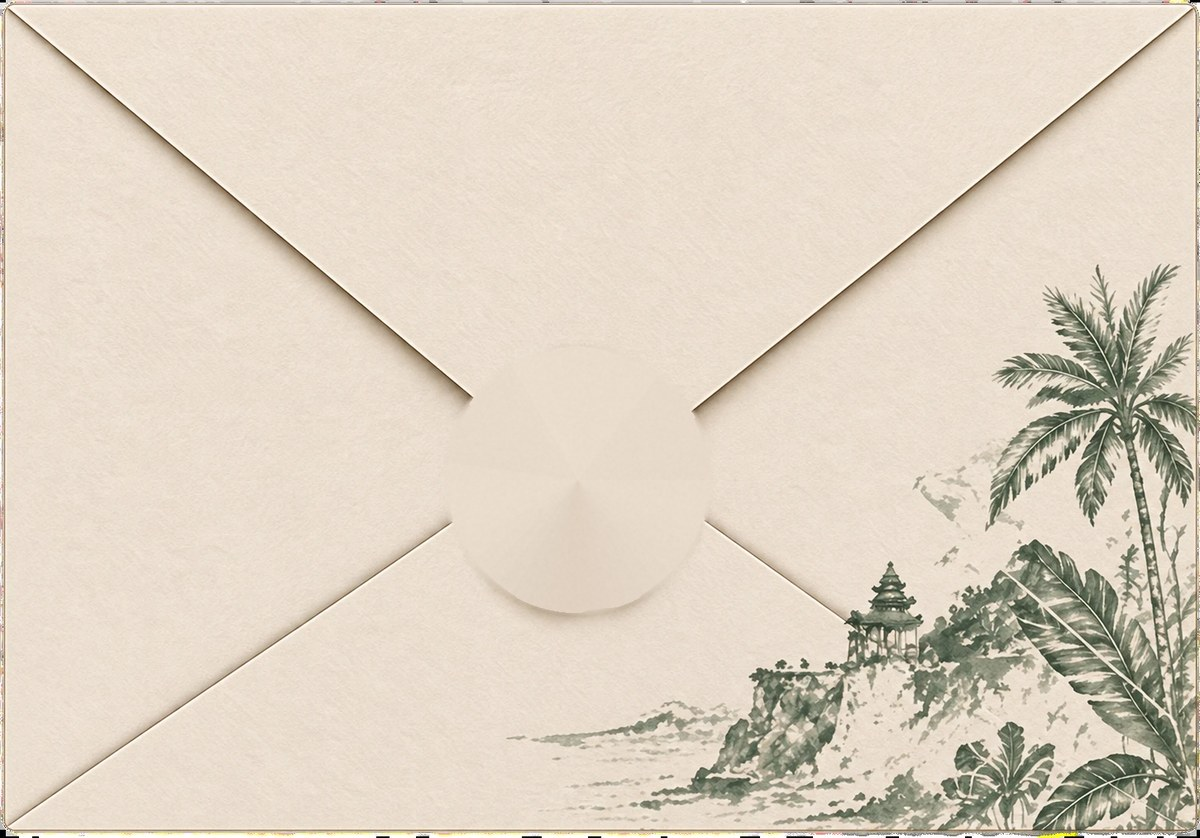
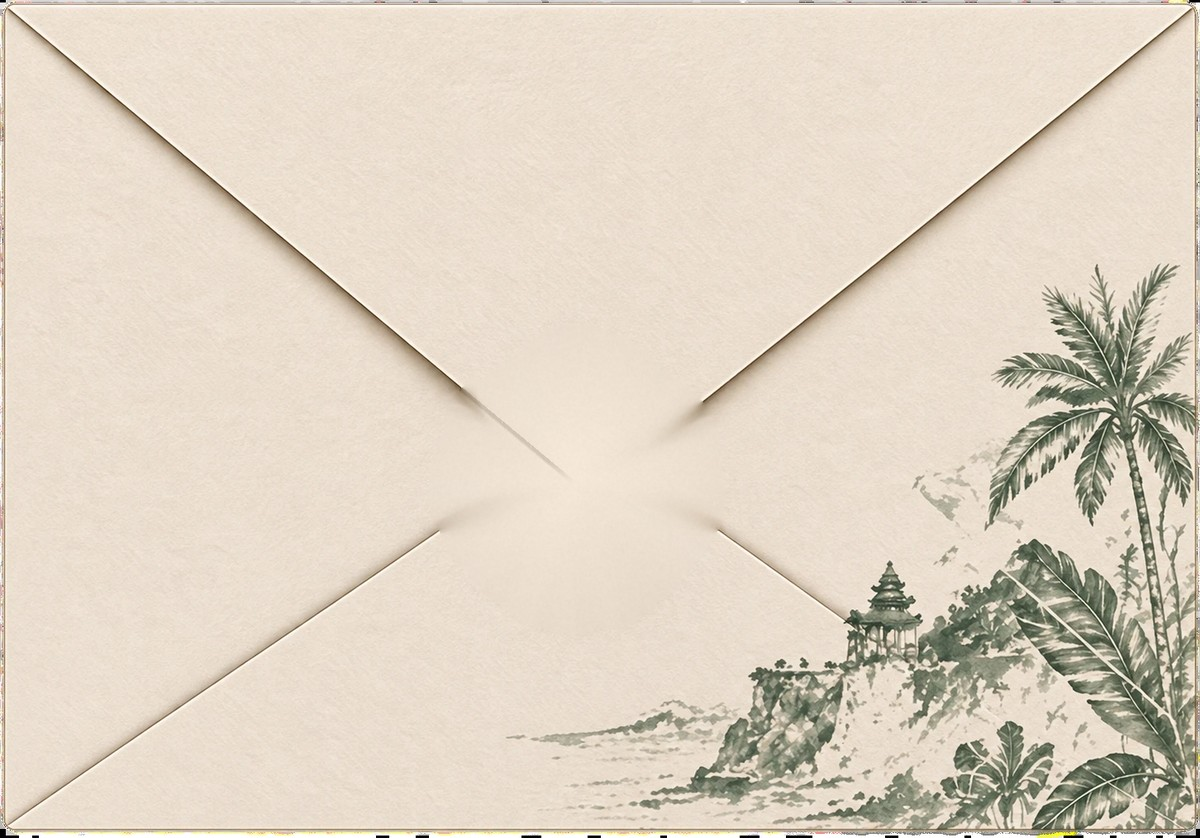
Envelope: the artwork as sent while sealed; seal-less paper only once the flap lifts
Closed, the envelope is the reference image itself, seal and all. As the flap begins to move the paper swaps to a copy with the wax and its shadow inpainted and the loose seal takes the painted one's exact place. The name line leaves the front.

Claude-Session: https://claude.ai/code/session_01GqK2ENqeRUwQmtgcSZFd9X

diff --git a/index.html b/index.html
@@ -202,8 +202,8 @@ button,input,select,textarea{font:inherit;color:inherit}
 /* Envelope parts share size and centre; JS applies the same transform to each. */
 .env{width:var(--ew);height:var(--eh);margin-left:calc(var(--ew) / -2);margin-top:calc(var(--eh) / -2)}
 .env-back{z-index:2;background:#E3DBC9;border-radius:6px}
-.env-pocket{z-index:5;border-radius:6px;overflow:hidden;background:url("assets/envelope.jpg") center/100% 100% no-repeat;
-  clip-path:polygon(0 0,48.1% 57.2%,100% 0,100% 100%,0 100%);-webkit-clip-path:polygon(0 0,48.1% 57.2%,100% 0,100% 100%,0 100%)}
+.env-pocket{z-index:5;border-radius:6px;overflow:hidden;background:url("assets/envelope-sealed.jpg") center/100% 100% no-repeat;
+  clip-path:polygon(0 0,48.10% 57.17%,100% 0,100% 100%,0 100%);-webkit-clip-path:polygon(0 0,48.10% 57.17%,100% 0,100% 100%,0 100%)}
 .env-pocket .addr{
   position:absolute;left:8%;right:44%;bottom:7%;text-align:center;
   font-family:var(--script);font-size:clamp(19px,5.2vw,26px);color:#6B6558;
@@ -214,15 +214,19 @@ button,input,select,textarea{font:inherit;color:inherit}
   will-change:transform;
 }
 .env-flap .flap-face{
-  position:absolute;inset:0;background:url("assets/envelope.jpg") center/100% 100% no-repeat;
-  clip-path:polygon(0 0,100% 0,48.1% 57.2%);
-  -webkit-clip-path:polygon(0 0,100% 0,48.1% 57.2%);
+  position:absolute;inset:0;background:url("assets/envelope-sealed.jpg") center/100% 100% no-repeat;
+  clip-path:polygon(0 0,100% 0,48.10% 57.17%);
+  -webkit-clip-path:polygon(0 0,100% 0,48.10% 57.17%);
 }
 .seal{
-  position:absolute;left:48.1%;top:57.2%;width:calc(var(--ew) * 0.226);height:calc(var(--ew) * 0.226);margin:calc(var(--ew) * -0.1131) 0 0 calc(var(--ew) * -0.1131);
+  position:absolute;left:48.10%;top:57.17%;width:calc(var(--ew) * 0.2280);height:calc(var(--ew) * 0.2280);margin:calc(var(--ew) * -0.1140) 0 0 calc(var(--ew) * -0.1140);
   will-change:transform;
 }
 .seal-art{position:absolute;inset:0;background:url("assets/seal.png") center/100% 100% no-repeat;filter:drop-shadow(0 3px 3px rgba(60,40,5,.35))}
+.stage.is-open .env-pocket,.stage.is-open .env-flap .flap-face{background-image:url("assets/envelope.jpg")}
+.seal{opacity:0}
+.stage.is-open .seal{opacity:1}
+.env-pocket .addr{display:none}
 /* The seal stays whole and rides up on the flap; it is on the flap's front face, so it goes
    out of sight as the flap turns over. */
 .env-flap .seal{backface-visibility:hidden;-webkit-backface-visibility:hidden}
@@ -1214,6 +1218,7 @@ var RSVP_ENDPOINT = "";
       var envY = vh * 0.06;
 
       /* -- Hint fades out immediately ------------------------------ 0.00–0.05 */
+      stage.classList.toggle('is-open', p > .015);
       hint.style.opacity = 1 - seg(p, 0, .05);
       capTop.style.opacity = 1 - seg(p, .50, .62);   /* the caption clears before the passport rises */
       scrimBottom.style.opacity = 1 - seg(p, 0, .10);
